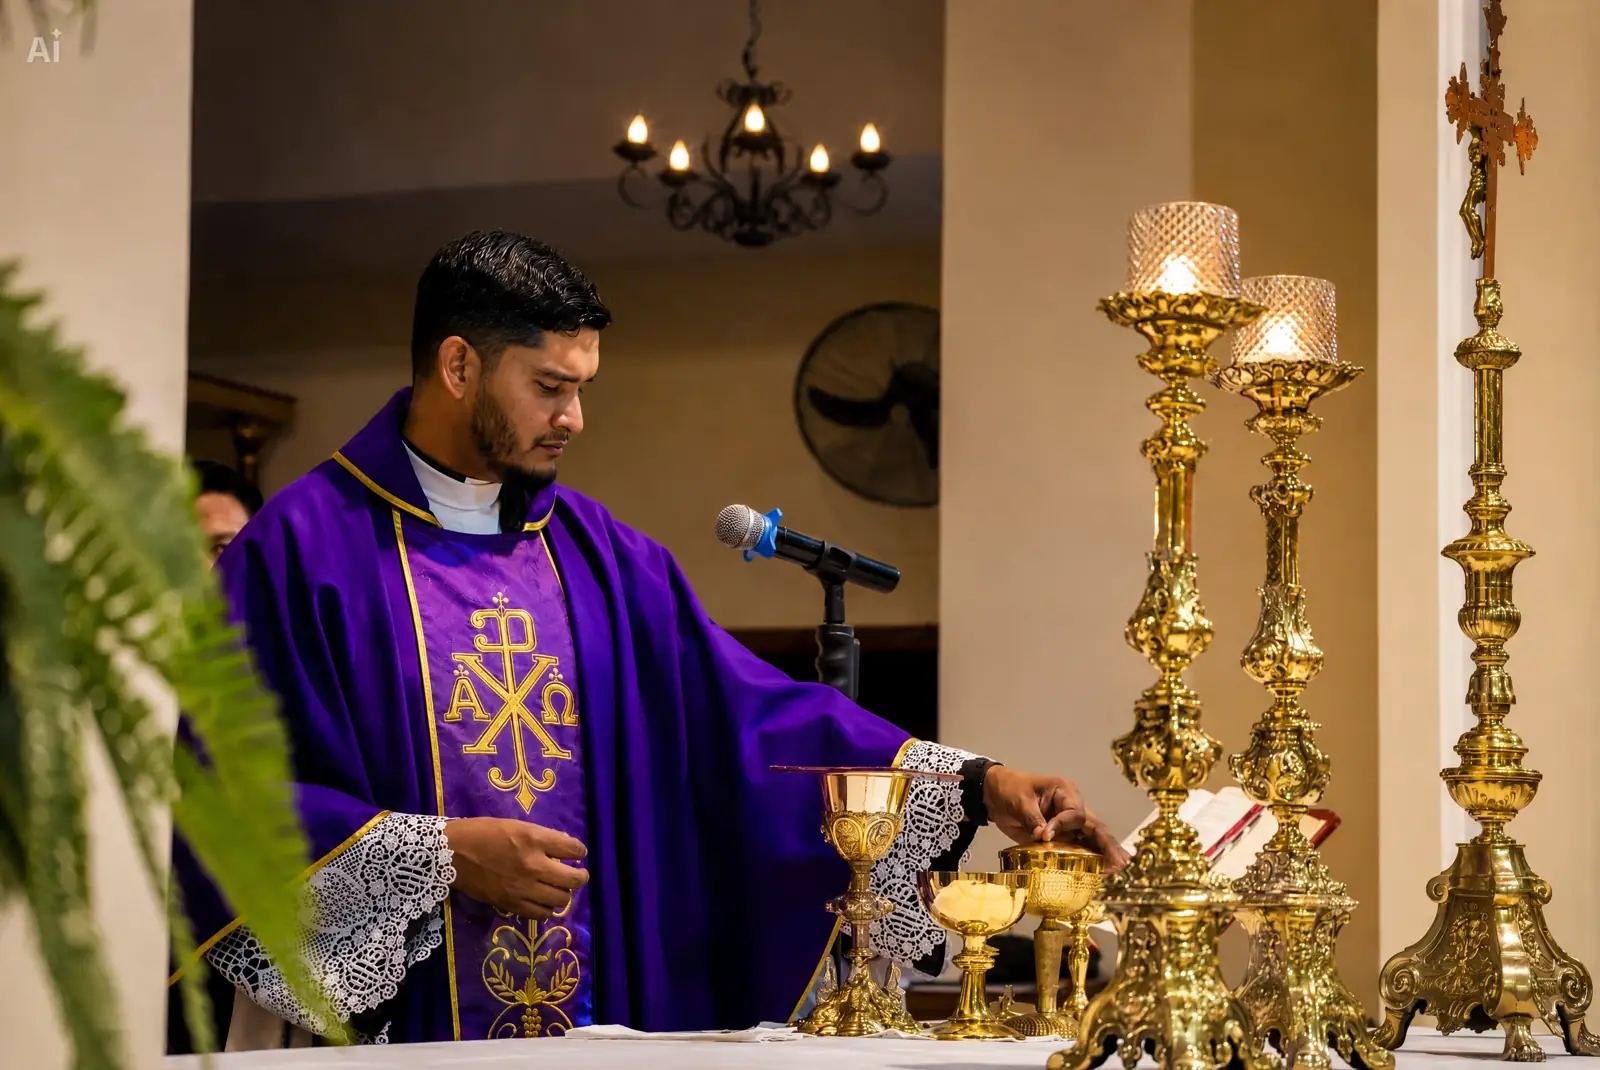
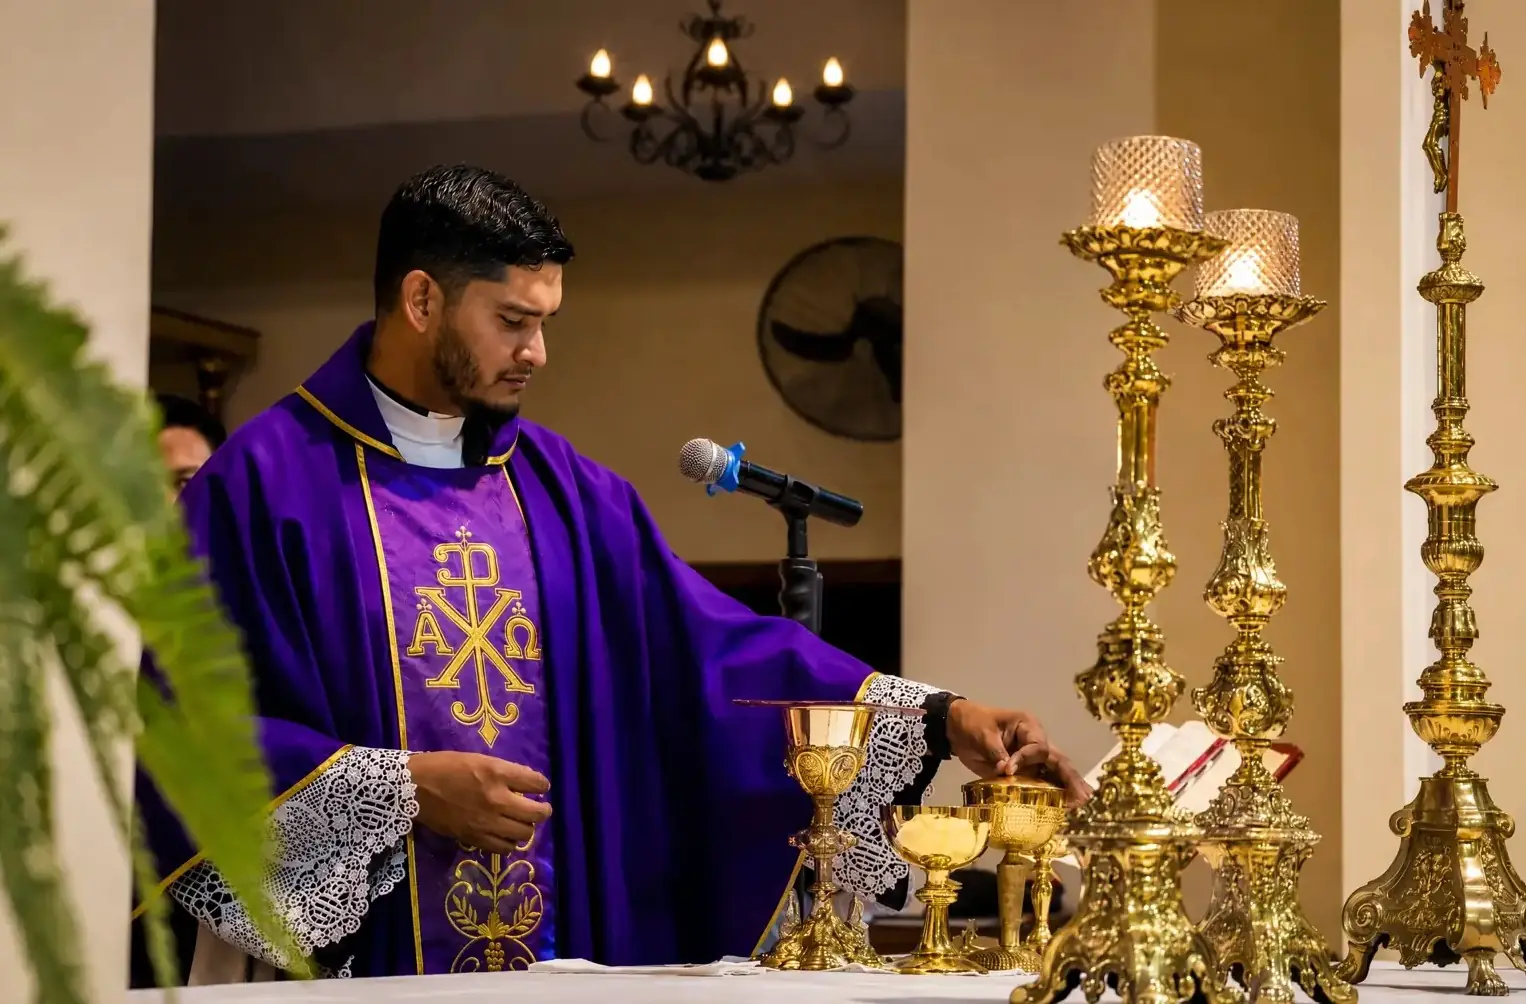
removing ai photo label

diff --git a/src/components/Priests.tsx b/src/components/Priests.tsx
@@ -93,7 +93,7 @@ function PriestProfile({ p, onClose }: { p: Priest; onClose: () => void }) {
                 type="button" onClick={() => setEnlarged(true)} aria-label={`Ver la foto de ${p.nombre} en grande`}
                 className="block w-full cursor-zoom-in"
               >
-                <img src={p.foto} alt={p.nombre} className="aspect-[16/9] w-full object-cover object-[center_30%]" />
+                <img src={p.foto} alt={p.nombre} className="aspect-[16/9] w-full object-cover object-[center_15%]" />
               </button>
             ) : (
               <PhotoPlaceholder label={p.nombre} className="aspect-[16/9] w-full" />
